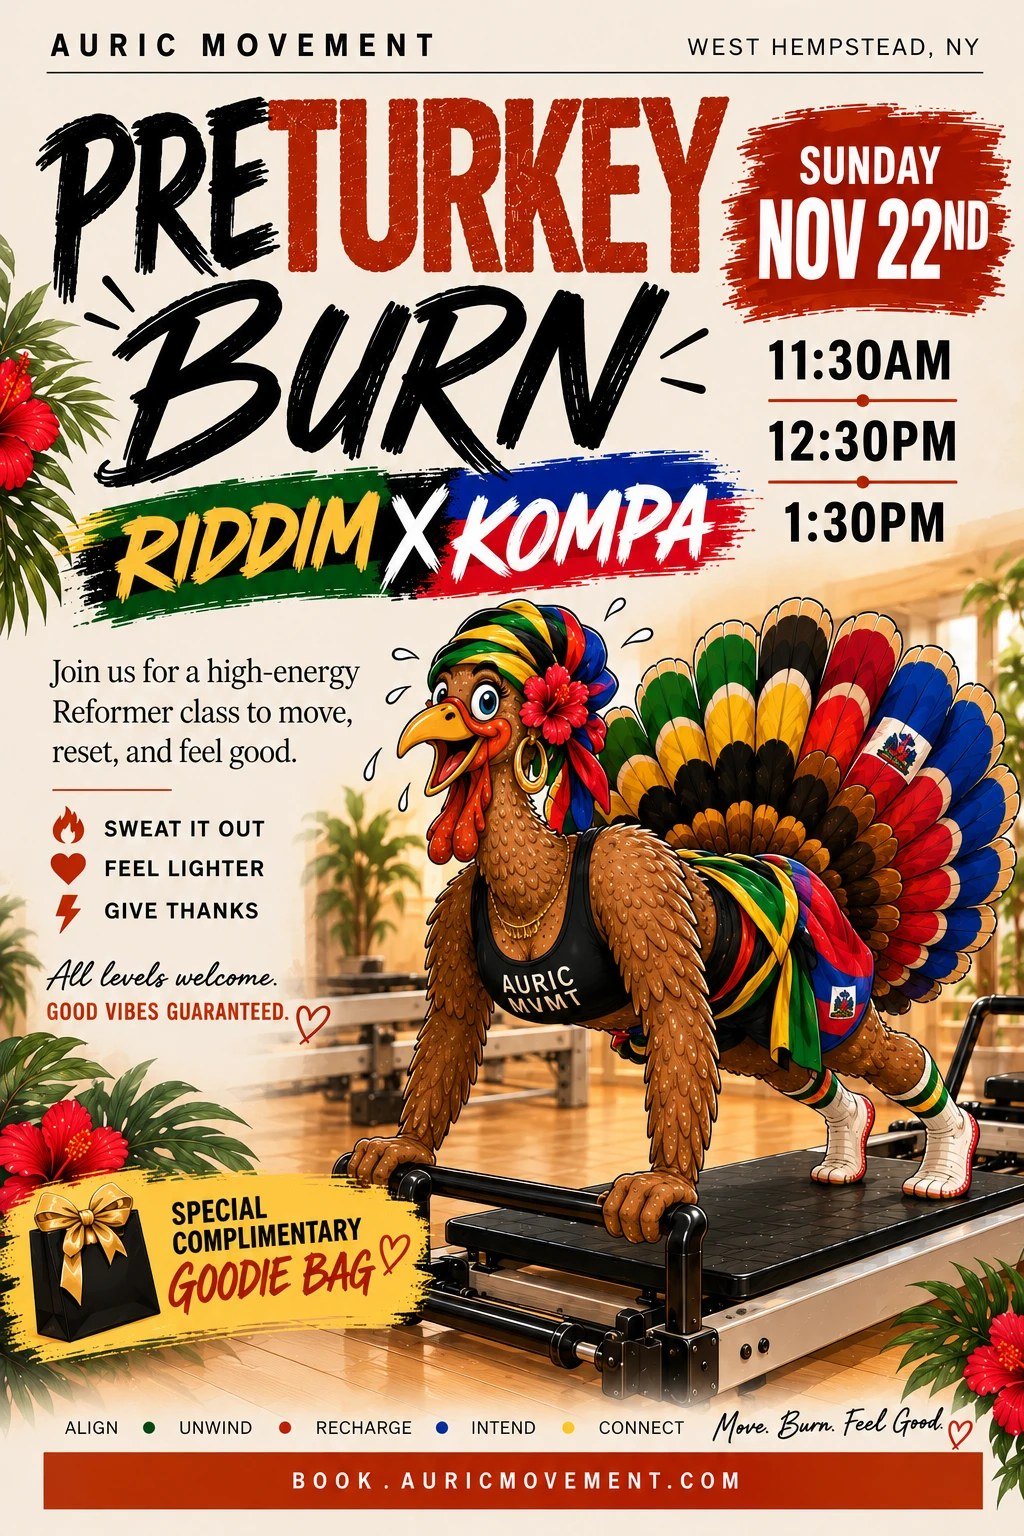
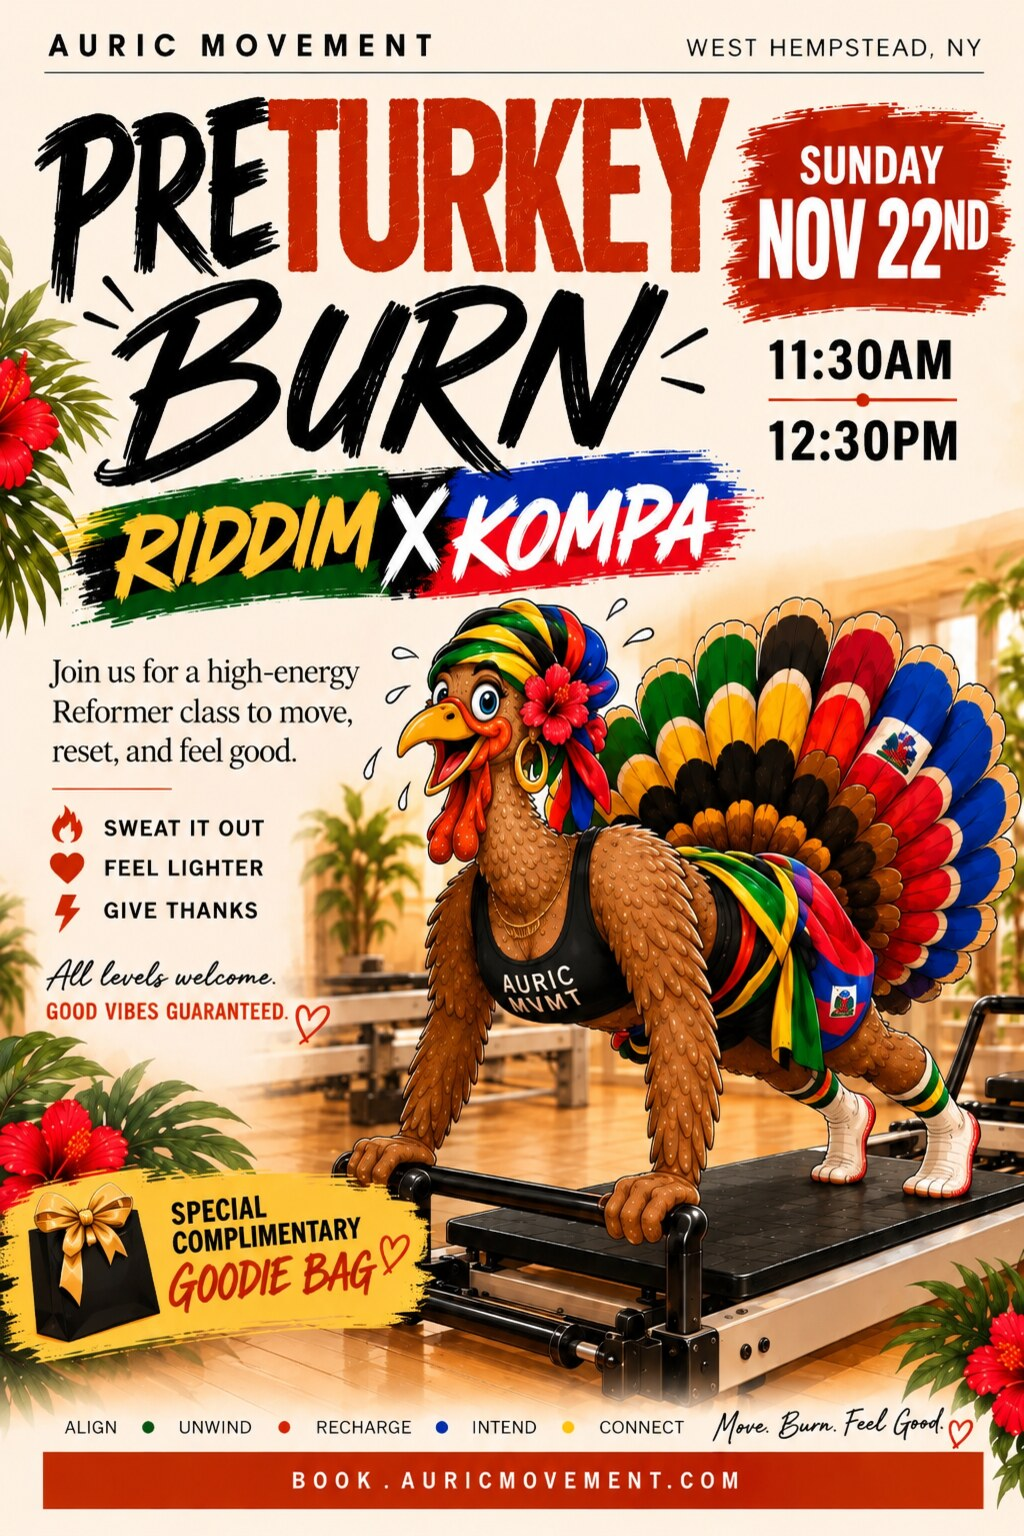
Update the Nov 22 flyer, and the words around it (#631)
New artwork: 11:30 and 12:30 only, matching the 1:30 coming off the
page. Written over turkey-burn-flyer.jpg at the same 1024x1536, so
every reference keeps working, and ?v= bumped to 6 on all three — the
card and both share-page meta tags — or the old one stays cached.

The text around it still said three sessions, which is the half of a
flyer swap that gets missed. The card subtitle, the image alt, the
booking overlay's meta line and the share page's description, title
alt and twitter description all now read 11:30 AM & 12:30 PM.

Nov 28's page is untouched. It has its own flyer and its own three
times, and a careless search-and-replace across both dates is exactly
how it would have picked up Nov 22's change.

Claude-Session: https://claude.ai/code/session_01C5C3S2hPFNYWpceXrqPaqV

diff --git a/turkey-burn/index.html b/turkey-burn/index.html
@@ -4,24 +4,24 @@
   <meta charset="UTF-8">
   <meta name="viewport" content="width=device-width, initial-scale=1.0">
   <title>Riddim × Kompa Pre-Turkey Burn — Sun Nov 22 | Auric Movement</title>
-  <meta name="description" content="Riddim × Kompa on the Reformer — Haitian and Jamaican sounds, start to finish. Burn it off before the holiday. Sunday, November 22 · 11:30 AM, 12:30 &amp; 1:30 PM at Valley Studio, West Hempstead NY. $45 · 6 spots each · all levels welcome.">
+  <meta name="description" content="Riddim × Kompa on the Reformer — Haitian and Jamaican sounds, start to finish. Burn it off before the holiday. Sunday, November 22 · 11:30 AM &amp; 12:30 PM at Valley Studio, West Hempstead NY. $45 · 6 spots each · all levels welcome.">
 
   <!-- Open Graph — Turkey Burn preview -->
   <meta property="og:type" content="website">
   <meta property="og:site_name" content="Auric Movement">
   <meta property="og:url" content="https://book.auricmovement.com/turkey-burn">
   <meta property="og:title" content="Riddim × Kompa Pre-Turkey Burn ✦ Auric Movement — Sun Nov 22">
-  <meta property="og:description" content="Riddim × Kompa on the Reformer — Haitian and Jamaican sounds all class. Sunday, November 22 · three sessions (11:30 AM, 12:30 &amp; 1:30 PM) · Valley Studio, West Hempstead NY. $45 · 6 spots each.">
-  <meta property="og:image" content="https://book.auricmovement.com/turkey-burn-flyer.jpg?v=5">
+  <meta property="og:description" content="Riddim × Kompa on the Reformer — Haitian and Jamaican sounds all class. Sunday, November 22 · two sessions (11:30 AM &amp; 12:30 PM) · Valley Studio, West Hempstead NY. $45 · 6 spots each.">
+  <meta property="og:image" content="https://book.auricmovement.com/turkey-burn-flyer.jpg?v=6">
   <meta property="og:image:width" content="1040">
   <meta property="og:image:height" content="1347">
-  <meta property="og:image:alt" content="Riddim × Kompa Pre-Turkey Burn on the Reformer — Sunday November 22 at Valley Studio, West Hempstead NY. Three sessions 11:30 AM, 12:30 & 1:30 PM, $45, 6 spots each.">
+  <meta property="og:image:alt" content="Riddim × Kompa Pre-Turkey Burn on the Reformer — Sunday November 22 at Valley Studio, West Hempstead NY. Three sessions 11:30 AM & 12:30 PM, $45, 6 spots each.">
 
   <!-- Twitter / iMessage card -->
   <meta name="twitter:card" content="summary_large_image">
   <meta name="twitter:title" content="Riddim × Kompa Pre-Turkey Burn ✦ Auric Movement — Sun Nov 22">
-  <meta name="twitter:description" content="Riddim × Kompa on the Reformer — Haitian and Jamaican sounds. Sunday, November 22 · 11:30 AM, 12:30 &amp; 1:30 PM · Valley Studio, West Hempstead NY. $45 — 6 spots each.">
-  <meta name="twitter:image" content="https://book.auricmovement.com/turkey-burn-flyer.jpg?v=5">
+  <meta name="twitter:description" content="Riddim × Kompa on the Reformer — Haitian and Jamaican sounds. Sunday, November 22 · 11:30 AM &amp; 12:30 PM · Valley Studio, West Hempstead NY. $45 — 6 spots each.">
+  <meta name="twitter:image" content="https://book.auricmovement.com/turkey-burn-flyer.jpg?v=6">
 
   <link rel="canonical" href="https://book.auricmovement.com/?book=turkey">
 

diff --git a/index.html b/index.html
@@ -3310,12 +3310,12 @@
       <button type="button" id="event-card-turkey" class="bq-event scroll-reveal" data-event-id="turkey-burn-2026-11-22" data-event-date="2026-11-22" data-event-name="Pre-Turkey Burn" data-location="long-island" data-riddim="true">
         <div data-donor-badge-wrap="1" class="bq-donor-slot"></div>
         <div class="bq-event-photo">
-          <img src="turkey-burn-flyer.jpg?v=5" alt="Riddim &#215; Kompa Pre-Turkey Burn on the Reformer &#8212; Sunday, November 22 at Valley Studio, West Hempstead NY &#183; three sessions (11:30 AM, 12:30 &amp; 1:30 PM) &#183; $45 &#183; complimentary goodie bag &#183; all levels welcome. A turkey in a head wrap and an AURIC MVMT tank on a reformer, with Jamaican and Haitian colours in its tail." loading="lazy" decoding="async">
+          <img src="turkey-burn-flyer.jpg?v=6" alt="Riddim &#215; Kompa Pre-Turkey Burn on the Reformer &#8212; Sunday, November 22 at Valley Studio, West Hempstead NY &#183; two sessions (11:30 AM &amp; 12:30 PM) &#183; $45 &#183; complimentary goodie bag &#183; all levels welcome. A turkey in a head wrap and an AURIC MVMT tank on a reformer, with Jamaican and Haitian colours in its tail." loading="lazy" decoding="async">
         </div>
         <div class="bq-event-date">11.22.26 &#183; Riddim &#215; Kompa</div>
         <div class="bq-event-name">Riddim &#215; Kompa <em>Pre-Turkey Burn</em></div>
         <div class="bq-event-loc">West Hempstead, NY</div>
-        <div class="bq-event-sub">Sun &#183; 11:30 AM, 12:30 &amp; 1:30 PM &#183; $45 &#183; Valley Studio, West Hempstead NY</div>
+        <div class="bq-event-sub">Sun &#183; 11:30 AM &amp; 12:30 PM &#183; $45 &#183; Valley Studio, West Hempstead NY</div>
         <div class="bq-event-sub" style="color:var(--gold-text);font-weight:600;">&#127925; Haitian &amp; Jamaican sounds, start to finish</div>
         <div class="bq-event-raffle">&#127903; Prize drawing &#183; win a 4-class package</div>
         <span class="bq-event-link">Reserve <span aria-hidden="true">&#8594;</span></span>
@@ -8693,7 +8693,7 @@ session:chosen, session_label:chosenLabel,
     <div class="rf-eyebrow">Auric Movement</div>
     <h2 class="rf-title">Post-Turkey Burn</h2>
     <p class="rf-meta">Saturday, November 28 &middot; Valley Studio, West Hempstead NY</p>
-    <p class="rf-meta"><strong>$45</strong> &middot; 45-minute session &middot; 11:30 AM, 12:30 &amp; 1:30 PM</p>
+    <p class="rf-meta"><strong>$45</strong> &middot; 45-minute session &middot; 11:30 AM &amp; 12:30 PM</p>
     <p class="rf-goodie">Sweat off the Thanksgiving feast on the Reformer &#127831;</p>
     <div class="rf-desc" data-rf-desc="turkey-burn-2026-11-28"></div>
     <div class="rf-raffle">
